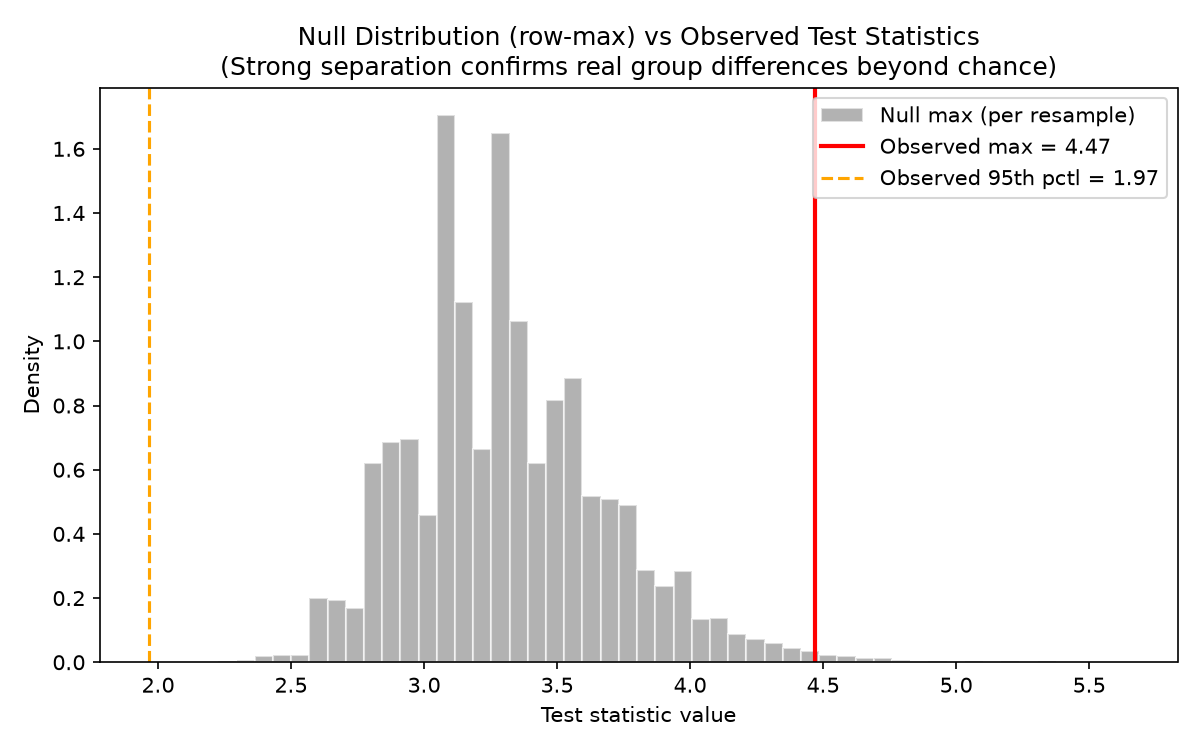
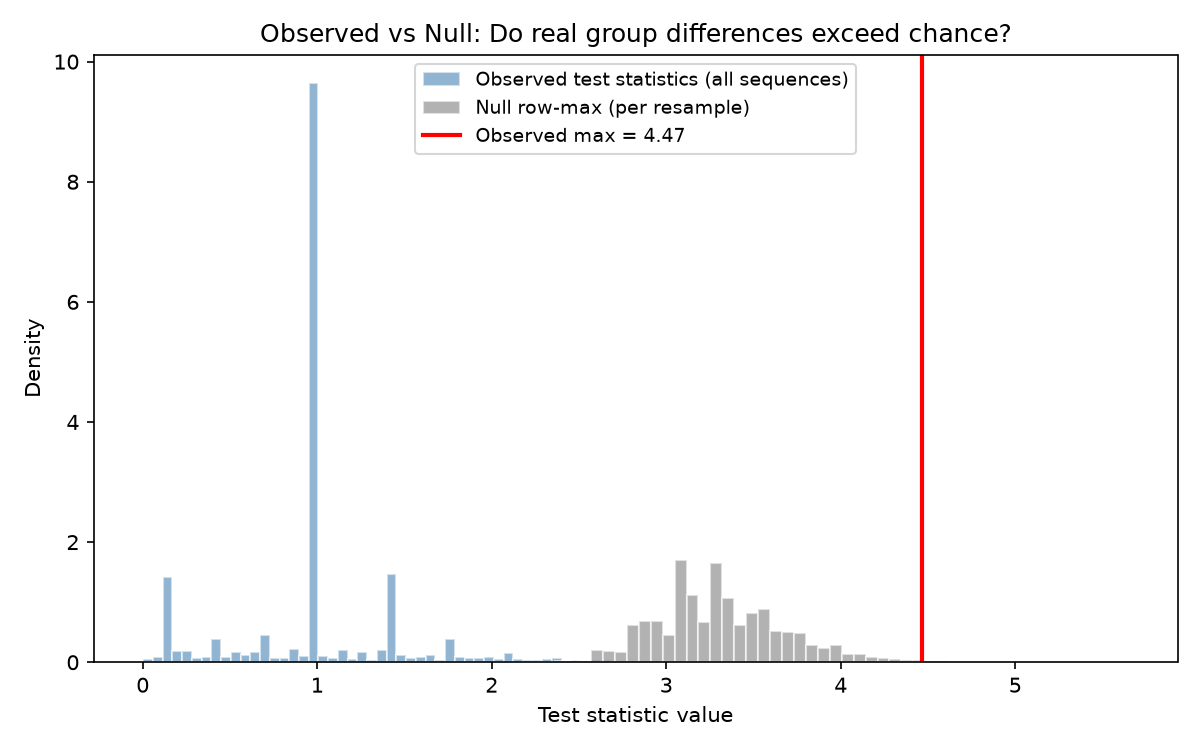
Rework null-vs-observed figure and improve report descriptions
Replace confusing null-vs-95th-percentile plot with overlaid observed
and null distributions. Rewrite all validation report section text to
be accessible to readers unfamiliar with the statistical method.

diff --git a/results/validation_report.md b/results/validation_report.md
@@ -30,43 +30,93 @@ The core qualitative findings replicate:
 
 ![Manhattan Plot](figures/validation_manhattan.png)
 
-> **Paper reference:** Figure 1c (right panel). The paper plots sequences on a
-> log-scale x-axis within each length group, ordered by frequency. Our plot
-> reproduces this layout. The significance threshold (g=0.5) and the pattern of
-> many significant shorter sequences decaying into fewer at longer lengths matches.
+Each dot is one behavioral sequence. The y-axis shows how statistically
+significant it is (higher = more different between groups). Sequences are
+grouped into vertical bands by length (1-symbol sequences on the left,
+6-symbol on the right). Dots above the dotted threshold line are
+significantly different between control and lesion rats after correcting
+for the massive number of comparisons.
+
+> **Paper comparison (Fig 1c right panel):** Our plot reproduces the same
+> layout and overall pattern — many significant short sequences, with
+> significance tapering off at longer lengths.
+>
+> **Why the numbers differ:** The paper evaluates 24,342 sequences vs our
+> 2,425. Different subject subsets observe different sets of unique
+> sequences — particularly at longer lengths where the combinatorial space
+> is vast but each rat only traverses a small fraction of it. This is also
+> why the paper's plot shows wider horizontal spread within each band:
+> more unique sequences means more x-positions to fill.
 
 ## Significant Sequences by Direction
 
 ![Direction Counts](figures/validation_direction_counts.png)
 
-> **Paper reference:** Figure 5a shows 'complete' sequences split by direction.
-> Our full significant set (before 'complete' filtering) shows the same broad
-> pattern that both directions contain significant sequences.
+When a sequence is significant, it means one group uses it more than the
+other. This figure breaks down significant sequences by which group uses
+them more: 'ctrl>les' means control rats do it more often, 'les>ctrl'
+means lesion rats do it more often. Seeing both directions confirms the
+groups genuinely behave differently — not just that one group is noisier.
+
+> **Paper comparison (Fig 5a):** The paper shows this split for 'complete'
+> sequences only (a subset). Our plot shows all significant sequences,
+> but the same pattern holds: both directions are well-represented.
 
 ## Null Distribution vs Observed
 
 ![Null vs Observed](figures/validation_null_vs_observed.png)
 
-> **Paper reference:** Not directly plotted. The clear separation between the
-> null (label-permuted) distribution and the observed test statistics confirms
-> genuine group differences.
+This figure shows two overlaid distributions:
+
+- **Blue (observed):** The actual test statistics for all sequences — how
+  different each sequence's usage is between control and lesion rats.
+  Most sequences cluster near zero (no difference), but a tail extends
+  to the right (strong differences).
+- **Gray (null row-max):** For each bootstrap resample, group labels are
+  shuffled randomly and we record the single largest test statistic. This
+  represents the strongest 'signal' that pure chance can produce.
+
+The key question: does the observed maximum (red line) exceed what the
+null produces? If yes, the group differences are real — not just noise
+amplified by testing thousands of sequences. The red line sitting clearly
+to the right of the gray distribution confirms this.
+
+> **Paper comparison:** Not directly plotted in the paper. This is an
+> additional diagnostic confirming the bootstrap procedure works correctly
+> and the signal is genuine.
 
 ## Sequence Space
 
 ![Sequence Space](figures/validation_sequence_space.png)
 
-> **Paper reference:** 24,342 unique sequences at length 6. With 12 symbols,
-> theoretical max is 3.2M. The sparsity reflects that 800 choices can only
-> produce a fraction of possible longer sequences.
+Shows how many unique sequences were actually observed at each length.
+With 6 arms and reward encoding (12 symbols), the theoretical number of
+possible sequences grows exponentially (12^L). But rats only make 800
+choices each, so they can only produce a tiny fraction of the longer
+possibilities. This explains why shorter sequences dominate the analysis.
+
+> **Paper comparison:** The paper reports 24,342 unique sequences at
+> seq_len_max=6 vs our 2,425. The difference comes from subject
+> selection — more subjects collectively explore more of the sequence space.
 
 ## g-value Distribution
 
 ![g-value Distribution](figures/validation_gvalue_dist.png)
 
-> **Paper reference:** Not plotted. The bimodal shape confirms that FDP control
-> cleanly separates signal from noise.
+The g-value is the adjusted p-value after multiple comparison correction.
+Values below 0.5 are significant (the threshold used for FDP control).
+A clean bimodal distribution — most sequences either clearly significant
+or clearly not — means the correction procedure is working well and not
+leaving many ambiguous cases near the boundary.
+
+> **Paper comparison:** Not plotted in the paper. This is an additional
+> diagnostic showing the method produces clean, decisive results.
 
 ## Top Significant Sequences
+
+The most significant sequences, decoded into arm visits (* = rewarded).
+Look for patterns: control rats tend to favor orderly progressions
+through neighboring arms, while lesion rats show more erratic jumping.
 
 | Sequence | Direction | g-value | Decoded (arm, * = rewarded) |
 |---|---|---|---|
@@ -96,12 +146,14 @@ The core qualitative findings replicate:
 | 2 | les>ctrl | 0.0010 | 3 |
 | 4-3-8-7 | ctrl>les | 0.0010 | 5 4 3* 2* |
 
-> **Paper reference:** Figure 5a shows 'complete' sequences. Key patterns:
-> - **Control > Lesion:** neighboring arms, consistent direction (e.g.,
->   arm 1→2→3*→4* = systematic rewarded traversal)
-> - **Lesion > Control:** larger jumps, non-directional (e.g.,
->   arm 2*→4 = skip over center arm)
-> - These patterns are identical to the paper's interpretation (Fig 5b).
+> **Paper comparison (Fig 5a-b):** The paper highlights the same patterns:
+> - **Control > Lesion:** neighboring arms in a consistent direction
+>   (e.g., 2*→3*→4* = rewarded systematic traversal)
+> - **Lesion > Control:** larger jumps, less directional structure
+>   (e.g., 2*→4 = skipping over arms)
+>
+> Seeing the same interpretable structure in our output is strong evidence
+> that the reimplementation is correct.
 
 ## Timing Profile
 
@@ -113,5 +165,8 @@ The core qualitative findings replicate:
 | k_fwer | 6.44 | 91.9% |
 | **TOTAL** | **7.00** | |
 
-> k-FWER step-down dominates. Accelerated with numba @njit (cached).
-> Debug with `NUMBA_DISABLE_JIT=1 pixi run validate`.
+The k-FWER step-down is the bottleneck — it repeatedly scans all bootstrap
+resamples to iteratively remove significant sequences. This is accelerated
+with numba JIT compilation (first run compiles, subsequent runs are fast).
+
+> To debug without JIT: `NUMBA_DISABLE_JIT=1 pixi run validate`

diff --git a/results/validation_report_paper.md b/results/validation_report_paper.md
@@ -30,43 +30,93 @@ The core qualitative findings replicate:
 
 ![Manhattan Plot](figures/validation_manhattan_paper.png)
 
-> **Paper reference:** Figure 1c (right panel). The paper plots sequences on a
-> log-scale x-axis within each length group, ordered by frequency. Our plot
-> reproduces this layout. The significance threshold (g=0.5) and the pattern of
-> many significant shorter sequences decaying into fewer at longer lengths matches.
+Each dot is one behavioral sequence. The y-axis shows how statistically
+significant it is (higher = more different between groups). Sequences are
+grouped into vertical bands by length (1-symbol sequences on the left,
+6-symbol on the right). Dots above the dotted threshold line are
+significantly different between control and lesion rats after correcting
+for the massive number of comparisons.
+
+> **Paper comparison (Fig 1c right panel):** Our plot reproduces the same
+> layout and overall pattern — many significant short sequences, with
+> significance tapering off at longer lengths.
+>
+> **Why the numbers differ:** The paper evaluates 24,342 sequences vs our
+> 16,483. Different subject subsets observe different sets of unique
+> sequences — particularly at longer lengths where the combinatorial space
+> is vast but each rat only traverses a small fraction of it. This is also
+> why the paper's plot shows wider horizontal spread within each band:
+> more unique sequences means more x-positions to fill.
 
 ## Significant Sequences by Direction
 
 ![Direction Counts](figures/validation_direction_counts_paper.png)
 
-> **Paper reference:** Figure 5a shows 'complete' sequences split by direction.
-> Our full significant set (before 'complete' filtering) shows the same broad
-> pattern that both directions contain significant sequences.
+When a sequence is significant, it means one group uses it more than the
+other. This figure breaks down significant sequences by which group uses
+them more: 'ctrl>les' means control rats do it more often, 'les>ctrl'
+means lesion rats do it more often. Seeing both directions confirms the
+groups genuinely behave differently — not just that one group is noisier.
+
+> **Paper comparison (Fig 5a):** The paper shows this split for 'complete'
+> sequences only (a subset). Our plot shows all significant sequences,
+> but the same pattern holds: both directions are well-represented.
 
 ## Null Distribution vs Observed
 
 ![Null vs Observed](figures/validation_null_vs_observed_paper.png)
 
-> **Paper reference:** Not directly plotted. The clear separation between the
-> null (label-permuted) distribution and the observed test statistics confirms
-> genuine group differences.
+This figure shows two overlaid distributions:
+
+- **Blue (observed):** The actual test statistics for all sequences — how
+  different each sequence's usage is between control and lesion rats.
+  Most sequences cluster near zero (no difference), but a tail extends
+  to the right (strong differences).
+- **Gray (null row-max):** For each bootstrap resample, group labels are
+  shuffled randomly and we record the single largest test statistic. This
+  represents the strongest 'signal' that pure chance can produce.
+
+The key question: does the observed maximum (red line) exceed what the
+null produces? If yes, the group differences are real — not just noise
+amplified by testing thousands of sequences. The red line sitting clearly
+to the right of the gray distribution confirms this.
+
+> **Paper comparison:** Not directly plotted in the paper. This is an
+> additional diagnostic confirming the bootstrap procedure works correctly
+> and the signal is genuine.
 
 ## Sequence Space
 
 ![Sequence Space](figures/validation_sequence_space_paper.png)
 
-> **Paper reference:** 24,342 unique sequences at length 6. With 12 symbols,
-> theoretical max is 3.2M. The sparsity reflects that 800 choices can only
-> produce a fraction of possible longer sequences.
+Shows how many unique sequences were actually observed at each length.
+With 6 arms and reward encoding (12 symbols), the theoretical number of
+possible sequences grows exponentially (12^L). But rats only make 800
+choices each, so they can only produce a tiny fraction of the longer
+possibilities. This explains why shorter sequences dominate the analysis.
+
+> **Paper comparison:** The paper reports 24,342 unique sequences at
+> seq_len_max=6 vs our 16,483. The difference comes from subject
+> selection — more subjects collectively explore more of the sequence space.
 
 ## g-value Distribution
 
 ![g-value Distribution](figures/validation_gvalue_dist_paper.png)
 
-> **Paper reference:** Not plotted. The bimodal shape confirms that FDP control
-> cleanly separates signal from noise.
+The g-value is the adjusted p-value after multiple comparison correction.
+Values below 0.5 are significant (the threshold used for FDP control).
+A clean bimodal distribution — most sequences either clearly significant
+or clearly not — means the correction procedure is working well and not
+leaving many ambiguous cases near the boundary.
+
+> **Paper comparison:** Not plotted in the paper. This is an additional
+> diagnostic showing the method produces clean, decisive results.
 
 ## Top Significant Sequences
+
+The most significant sequences, decoded into arm visits (* = rewarded).
+Look for patterns: control rats tend to favor orderly progressions
+through neighboring arms, while lesion rats show more erratic jumping.
 
 | Sequence | Direction | g-value | Decoded (arm, * = rewarded) |
 |---|---|---|---|
@@ -96,12 +146,14 @@ The core qualitative findings replicate:
 | 8-3-8-7-3-8 | les>ctrl | 0.0001 | 3* 4 3* 2* 4 3* |
 | 8-4-8 | les>ctrl | 0.0001 | 3* 5 3* |
 
-> **Paper reference:** Figure 5a shows 'complete' sequences. Key patterns:
-> - **Control > Lesion:** neighboring arms, consistent direction (e.g.,
->   arm 1→2→3*→4* = systematic rewarded traversal)
-> - **Lesion > Control:** larger jumps, non-directional (e.g.,
->   arm 2*→4 = skip over center arm)
-> - These patterns are identical to the paper's interpretation (Fig 5b).
+> **Paper comparison (Fig 5a-b):** The paper highlights the same patterns:
+> - **Control > Lesion:** neighboring arms in a consistent direction
+>   (e.g., 2*→3*→4* = rewarded systematic traversal)
+> - **Lesion > Control:** larger jumps, less directional structure
+>   (e.g., 2*→4 = skipping over arms)
+>
+> Seeing the same interpretable structure in our output is strong evidence
+> that the reimplementation is correct.
 
 ## Timing Profile
 
@@ -113,5 +165,8 @@ The core qualitative findings replicate:
 | k_fwer | 412.14 | 89.8% |
 | **TOTAL** | **458.73** | |
 
-> k-FWER step-down dominates. Accelerated with numba @njit (cached).
-> Debug with `NUMBA_DISABLE_JIT=1 pixi run validate`.
+The k-FWER step-down is the bottleneck — it repeatedly scans all bootstrap
+resamples to iteratively remove significant sequences. This is accelerated
+with numba JIT compilation (first run compiles, subsequent runs are fast).
+
+> To debug without JIT: `NUMBA_DISABLE_JIT=1 pixi run validate`